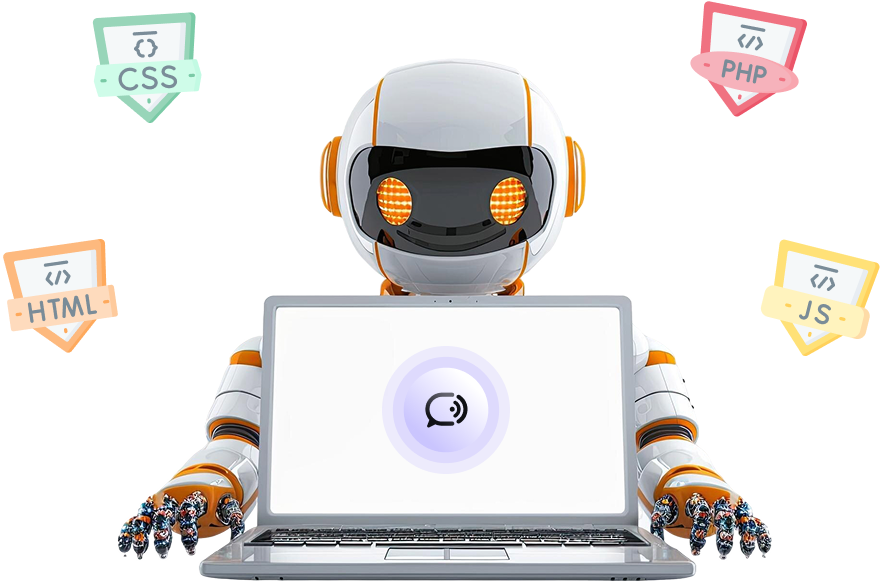
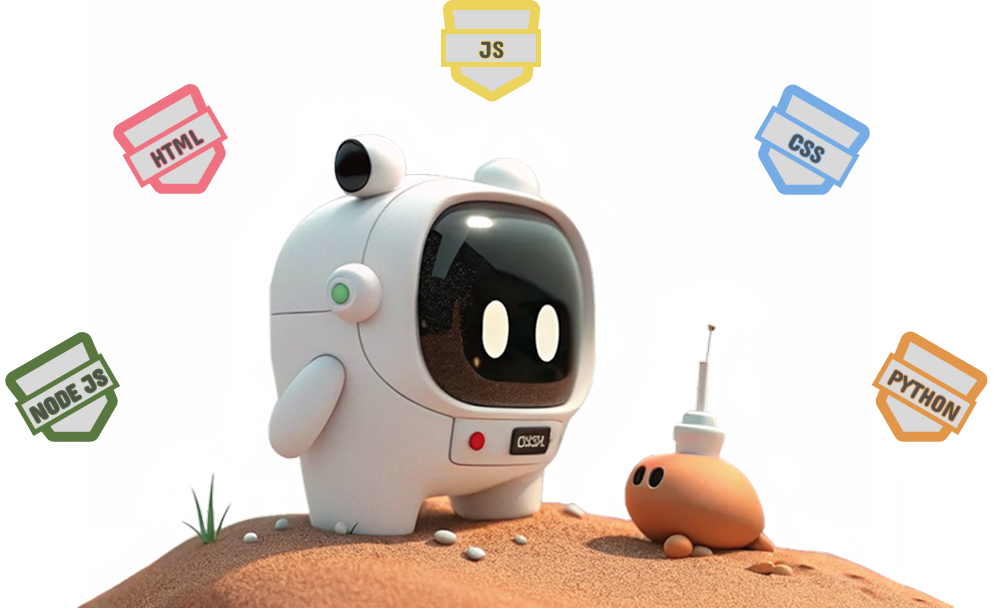
update ui

diff --git a/components/AnimatedGrid.tsx b/components/AnimatedGrid.tsx
@@ -1,0 +1,163 @@
+"use client";
+
+import React, { useState, useEffect, useRef } from "react";
+
+const AnimatedGrid: React.FC = () => {
+  const [highlightedCells, setHighlightedCells] = useState<string[]>([]);
+  const [dimensions, setDimensions] = useState({ width: 0, height: 0 });
+
+  const cellSize = 100;
+  const sideMargin = 100;
+  const topMargin = 40;
+
+  useEffect(() => {
+    const updateDimensions = () => {
+      setDimensions({
+        width: window.innerWidth,
+        height: window.innerHeight,
+      });
+    };
+
+    updateDimensions();
+    window.addEventListener("resize", updateDimensions);
+
+    return () => window.removeEventListener("resize", updateDimensions);
+  }, []);
+
+  const cols = Math.floor((dimensions.width - 2 * sideMargin) / cellSize);
+  const rows = Math.floor(dimensions.height / cellSize);
+
+  useEffect(() => {
+    if (cols <= 0 || rows <= 0) return;
+
+    const animateCell = () => {
+      const randomCol = Math.floor(Math.random() * cols);
+      const randomRow = Math.floor(Math.random() * rows);
+      const cellId = `${randomCol}-${randomRow}`;
+
+      setHighlightedCells((prev) => [...prev, cellId]);
+
+      setTimeout(() => {
+        setHighlightedCells((prev) => prev.filter((id) => id !== cellId));
+      }, 5000);
+    };
+
+    // Запускаем анимацию случайных клеток
+    const interval = setInterval(() => {
+      if (Math.random() < 0.3) {
+        // 30% шанс подсветки новой клетки
+        animateCell();
+      }
+    }, 500);
+
+    // Начальная анимация
+    for (let i = 0; i < 3; i++) {
+      setTimeout(animateCell, i * 1000);
+    }
+
+    return () => clearInterval(interval);
+  }, [cols, rows]);
+
+  const getCellOpacity = (row: number): number => {
+    const fadeStartRow = (dimensions.height * 0.6) / cellSize; // Начало затемнения на 60% высоты
+    const fadeEndRow = (dimensions.height * 0.9) / cellSize; // Полное исчезновение на 90% высоты
+
+    if (row < fadeStartRow) return 1;
+    if (row >= fadeEndRow) return 0;
+
+    const fadeProgress = (row - fadeStartRow) / (fadeEndRow - fadeStartRow);
+    return 1 - fadeProgress;
+  };
+
+  if (dimensions.width === 0 || dimensions.height === 0) {
+    return null;
+  }
+
+  return (
+    <div
+      className="absolute inset-0 #0A0A0A overflow-hidden"
+      style={{
+        width: "100vw",
+        height: "100vh",
+      }}
+    >
+      <div
+        className="absolute"
+        style={{
+          left: `${sideMargin}px`,
+          top: `${topMargin}px`,
+          width: `${dimensions.width - 2 * sideMargin}px`,
+          height: `${dimensions.height - topMargin}px`,
+        }}
+      >
+        {Array.from({ length: rows }, (_, row) => (
+          <div key={row} className="flex" style={{ height: `${cellSize}px` }}>
+            {Array.from({ length: cols }, (_, col) => {
+              const cellId = `${col}-${row}`;
+              const isHighlighted = highlightedCells.includes(cellId);
+              const opacity = getCellOpacity(row);
+
+              return (
+                <div
+                  key={cellId}
+                  className="relative"
+                  style={{
+                    width: `${cellSize}px`,
+                    height: `${cellSize}px`,
+                    backgroundColor: isHighlighted
+                      ? `rgba(40, 40, 40, ${0.4 * opacity})` // for blocks
+                      : "transparent",
+                    transition: "background-color 1s ease-in-out",
+                  }}
+                >
+                  {/* right grad */}
+                  {col < cols - 1 && (
+                    <div
+                      className="absolute right-0 top-0 h-full"
+                      style={{
+                        width: "2px",
+                        backgroundColor: `rgba(255, 255, 255, ${
+                          0.05 * opacity
+                        })`,
+                      }}
+                    />
+                  )}
+                  {/* down grad */}
+                  {row < rows - 1 && (
+                    <div
+                      className="absolute bottom-0 left-0 w-full"
+                      style={{
+                        height: "2px",
+                        backgroundColor: `rgba(255, 255, 255, ${
+                          0.05 * opacity
+                        })`,
+                      }}
+                    />
+                  )}
+                </div>
+              );
+            })}
+          </div>
+        ))}
+      </div>
+
+      {/* Gradient opacity */}
+      <div
+        className="absolute inset-0 pointer-events-none"
+        style={{
+          background: `linear-gradient(
+      to bottom,
+      rgba(10, 10, 10, 0.8) 0%,
+      rgba(10, 10, 10, 0) 15%,
+      rgba(10, 10, 10, 0) 60%,
+      rgba(10, 10, 10, 0.5) 75%,
+      rgba(10, 10, 10, 0.9) 90%,
+      #0A0A0A 100%
+    )`,
+        }}
+      />
+    </div>
+  );
+};
+
+export default AnimatedGrid;

diff --git a/app/layout.tsx b/app/layout.tsx
@@ -2,6 +2,7 @@ import type { Metadata } from "next";
 import { Mona_Sans } from "next/font/google";
 import "./globals.css";
 import { Toaster } from "sonner";
+import AnimatedGrid from "@/components/AnimatedGrid";
 
 const monaSans = Mona_Sans({
   variable: "--font-mona-sans",
@@ -9,7 +10,7 @@ const monaSans = Mona_Sans({
 });
 
 export const metadata: Metadata = {
-  title: "PrepWise",
+  title: "PrepMeIn",
   description: "An AI-powered platform for preparing for mock interviews",
 };
 
@@ -20,8 +21,11 @@ export default function RootLayout({
 }>) {
   return (
     <html lang="en" className="dark">
-      <body className={` ${monaSans.className} antialiased pattern`}>
-        {children}
+      <body className={`${monaSans.className} antialiased`}>
+        <AnimatedGrid />
+
+        <div className="relative z-10">{children}</div>
+
         <Toaster />
       </body>
     </html>

diff --git a/components/AuthForm.tsx b/components/AuthForm.tsx
@@ -98,7 +98,10 @@ const AuthForm = ({ type }: { type: FormType }) => {
       <div className="flex flex-col gap-6 card py-14 px-10">
         <div className="flex flex-row gap-2 justify-center">
           <Image src="./logo.svg" alt="logo" height={32} width={38} />
-          <h2 className="text-primary-100">PrepWise</h2>
+          <h2 className="text-primary-100">
+            {" "}
+            PrepMe<span className="blue-gradient-dark">in</span>
+          </h2>
         </div>
         <h3>Practice job interview with AI</h3>
 

diff --git a/app/(root)/layout.tsx b/app/(root)/layout.tsx
@@ -13,7 +13,7 @@ const RootLayout = async ({ children }: { children: ReactNode }) => {
         <Link href="/" className="flex items-center gap-2">
           <Image src="/logo.svg" alt="logo" width={38} height={32} />
           <h2 className="text-primary-100">
-            PrepMe <span className="blue-gradient-dark">in</span>
+            PrepMe<span className="blue-gradient-dark">in</span>
           </h2>
         </Link>
       </nav>

diff --git a/components/Agent.tsx b/components/Agent.tsx
@@ -160,8 +160,8 @@ const Agent = ({
             <Image
               src="/ai-avatar.png"
               alt="profile-image"
-              width={65}
-              height={54}
+              width={539}
+              height={539}
               className="object-cover"
             />
             {isSpeaking && <span className="animate-speak" />}

diff --git a/app/globals.css b/app/globals.css
@@ -309,7 +309,7 @@
 }
 
 @utility blue-gradient-dark {
-  @apply bg-gradient-to-b from-[#171532] to-[#08090D];
+  @apply pl-2 pr-2 bg-gradient-to-b from-[#171532] to-[#08090D];
 }
 
 @utility blue-gradient {
